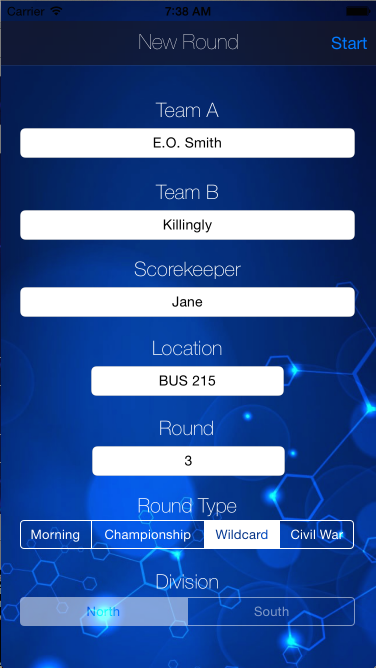
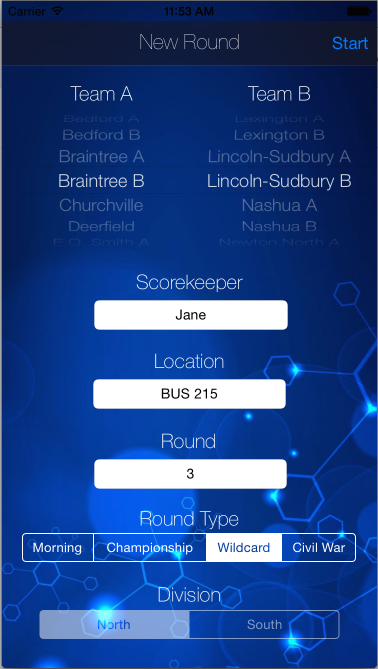
Fix Issue #4, add updated screenshot

diff --git a/ScienceBowlScorecard/StartViewController.m b/ScienceBowlScorecard/StartViewController.m
@@ -10,7 +10,7 @@
 #import "ViewController.h"
 
 @interface StartViewController () {
-    int fieldCount;
+    NSMutableArray *teams;
 }
 
 @end
@@ -32,9 +32,10 @@
     [navBar setTitleTextAttributes:[NSDictionary dictionaryWithObjectsAndKeys:
                                     [UIFont fontWithName:@"HelveticaNeue-UltraLight" size:21],
                                     NSFontAttributeName, nil]];
-    fieldCount = 0;
     self.roundType.apportionsSegmentWidthsByContent = YES;
-    // Do any additional setup after loading the view.
+
+    NSString *rosterTeams = [NSString stringWithContentsOfFile:[[NSBundle mainBundle] pathForResource:@"roster" ofType:@"txt"] encoding:NSMacOSRomanStringEncoding error:nil];
+    teams = [[NSMutableArray alloc]initWithArray:[rosterTeams componentsSeparatedByString:@"\n"]];
 }
 
 - (void)didReceiveMemoryWarning {
@@ -43,7 +44,7 @@
 }
 
 - (BOOL)textFieldShouldReturn:(UITextField *)textField {
-    if (textField == self.roundNum || fieldCount >= 5) {
+    if (textField == self.roundNum) {
         [textField resignFirstResponder];
         [self.scrollView setContentOffset:CGPointMake(0,0) animated:YES];
     }
@@ -55,16 +56,7 @@
         [self.location becomeFirstResponder];
         [self.scrollView setContentOffset:CGPointMake(0,self.location.center.y-90) animated:YES];
     }
-    else if (textField == self.teamB) {
-        [self.scorekeeper becomeFirstResponder];
-        [self.scrollView setContentOffset:CGPointMake(0,self.scorekeeper.center.y-90) animated:YES];
-        
-    }
-    else if (textField == self.teamA) {
-        [self.teamB becomeFirstResponder];
-        [self.scrollView setContentOffset:CGPointMake(0,self.teamB.center.y-90) animated:YES];
-    }
-    if ([self.teamB hasText] && [self.teamA hasText] && [self.scorekeeper hasText] && [self.location hasText] && [self.roundNum hasText]) {
+    if ([self.scorekeeper hasText] && [self.location hasText] && [self.roundNum hasText]) {
         self.startButton.enabled = YES;
     }
     return YES;
@@ -75,14 +67,36 @@
     self.division.enabled = [selection isEqualToString:@"Wildcard"] || [selection isEqualToString:@"Civil War"] || [self.roundNum.text.capitalizedString containsString:@"Final"] ? NO : YES;
 }
 
+# pragma mark - Picker View Data Source
+- (NSInteger)numberOfComponentsInPickerView:(UIPickerView *)pickerView {
+    return 1;
+}
+
+- (NSInteger)pickerView:(UIPickerView *)pickerView numberOfRowsInComponent: (NSInteger)component {
+    return [teams count];
+}
+
+- (UIView *)pickerView:(UIPickerView *)pickerView viewForRow:(NSInteger)row forComponent:(NSInteger)component reusingView:(UIView *)view {
+    UILabel* tView = (UILabel*)view;
+    if (!tView) {
+        tView = [[UILabel alloc] init];
+        [tView setFont:[UIFont fontWithName:@"HelveticaNeue-Light" size:18]];
+        tView.textColor = [UIColor whiteColor];
+        tView.numberOfLines = 2;
+    }
+    tView.text = [teams objectAtIndex:row];
+    tView.textAlignment = NSTextAlignmentCenter;
+    return tView;
+}
+
 #pragma mark - Navigation
 
 - (void)prepareForSegue:(UIStoryboardSegue *)segue sender:(id)sender {
     // Get the new view controller using [segue destinationViewController].
     // Pass the selected object to the new view controller.
     ViewController *controller = [segue destinationViewController];
-    controller.teamA = self.teamA.text;
-    controller.teamB = self.teamB.text;
+    controller.teamA = [teams objectAtIndex:[self.teamA selectedRowInComponent:0]];
+    controller.teamB = [teams objectAtIndex:[self.teamB selectedRowInComponent:0]];
     controller.location = self.location.text;
     controller.scorekeeper = self.scorekeeper.text;
     controller.roundNum = self.roundNum.text;

diff --git a/ScienceBowlScorecard/StartViewController.h b/ScienceBowlScorecard/StartViewController.h
@@ -8,12 +8,12 @@
 
 #import <UIKit/UIKit.h>
 
-@interface StartViewController : UIViewController <UITextFieldDelegate> {
+@interface StartViewController : UIViewController <UITextFieldDelegate, UIPickerViewDataSource, UIPickerViewDelegate> {
     
 }
 @property (weak, nonatomic) IBOutlet UIScrollView *scrollView;
-@property (weak, nonatomic) IBOutlet UITextField* teamA;
-@property (weak, nonatomic) IBOutlet UITextField* teamB;
+@property (weak, nonatomic) IBOutlet UIPickerView* teamA;
+@property (weak, nonatomic) IBOutlet UIPickerView* teamB;
 @property (weak, nonatomic) IBOutlet UITextField* location;
 @property (weak, nonatomic) IBOutlet UITextField* scorekeeper;
 @property (weak, nonatomic) IBOutlet UITextField* roundNum;
